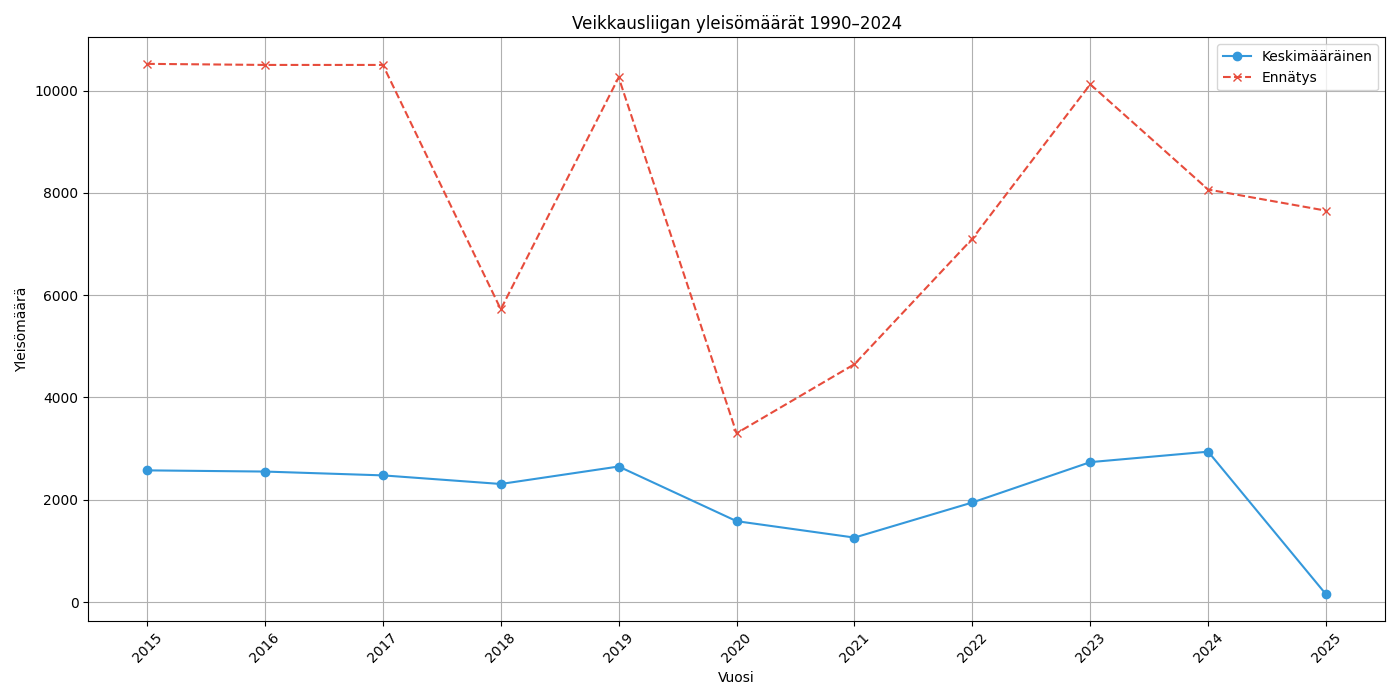
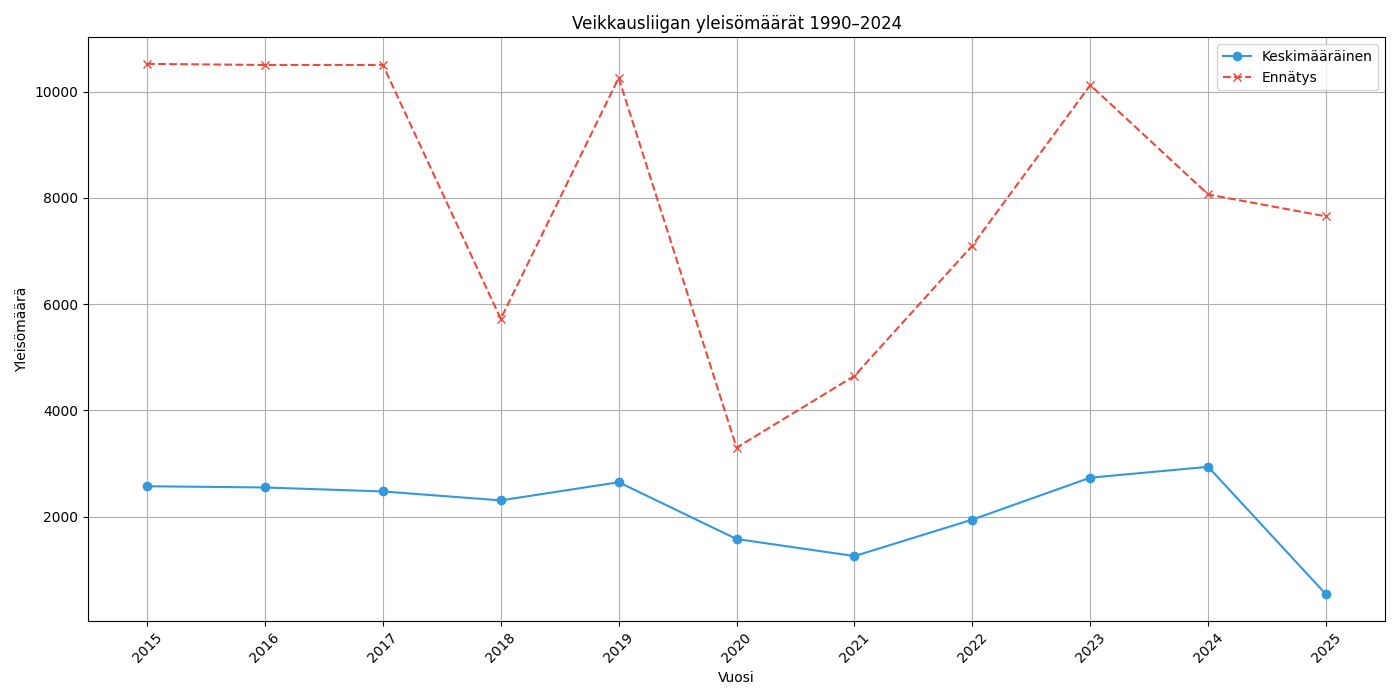
Automaattinen analyysipäivitys

diff --git a/reports/yleisohistoria.md b/reports/yleisohistoria.md
@@ -3,7 +3,7 @@
 ## Kaikkien aikojen ennätykset
 - Suurin yleisömäärä: **10,521** katsojaa (2015, HJK)
 - Pienin yleisömäärä: 0 katsojaa
-- Keskimääräinen yleisömäärä: 2164
+- Keskimääräinen yleisömäärä: 2194
 
 ## Vuosittainen kehitys
 | Vuosi | Keskimääräinen | Suurin yleisö | Ottelu |
@@ -18,4 +18,4 @@
 | 2022 | 1946 | 7,103 | HIFK vs HJK |
 | 2023 | 2736 | 10,121 | HJK vs KuPS |
 | 2024 | 2940 | 8,064 | HJK vs IF Gnistan |
-| 2025 | 150 | 7,651 | Ilves vs HJK |
+| 2025 | 540 | 7,651 | Ilves vs HJK |
